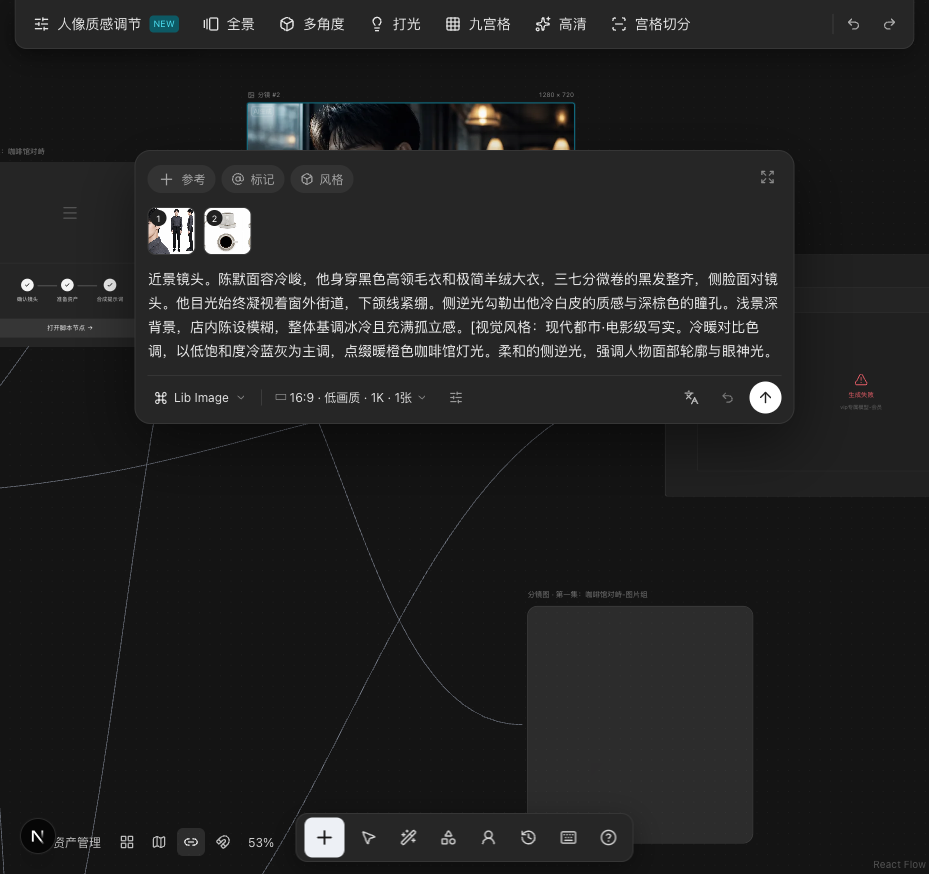
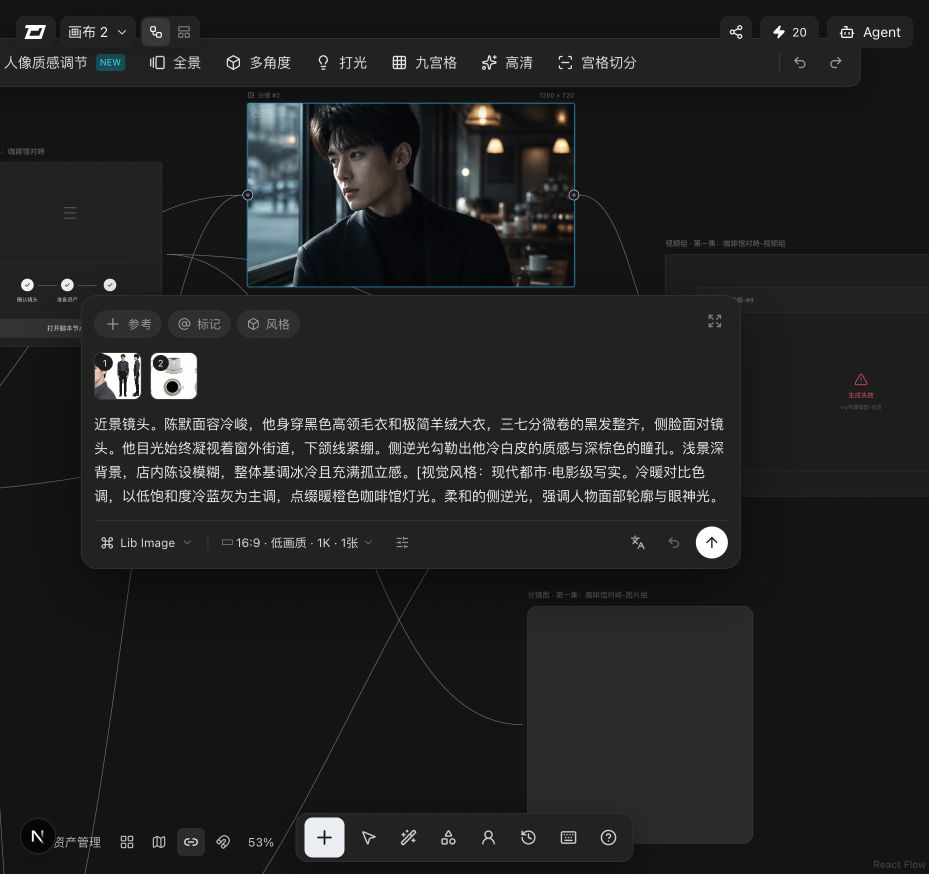
docs: specify image overlay anchoring

diff --git a/docs/research/components/ImageEditPanel.spec.md b/docs/research/components/ImageEditPanel.spec.md
@@ -1,89 +1,70 @@
 # ImageEditPanel Specification
 
-## Overview
+## Evidence
 
 - **Target file:** `src/components/ImageEditPanel.tsx`
-- **Trigger:** ImageNode is selected (`selected === true`).
-- **Position:** Absolutely positioned below the image node (`absolute left-0 right-0 top-full mt-2`).
-- **z-index:** 50.
+- **Live sample:** LibTV canvas, measured 2026-08-25
+- **Trigger:** an `ImageNode` is selected
+- **Reference:** `docs/design-references/liblib-original-image-selected-2026-08-25.png`
 
-## DOM Structure
+## Positioning Contract
 
-```
-<div className="absolute left-0 right-0 top-full mt-2 z-50 bg-[#1f1f1f] border border-[#363636] rounded-xl shadow-xl overflow-hidden">
+The editor is not a page-level fixed overlay. It is mounted inside the selected image node so it follows node movement, viewport pan, and viewport zoom.
 
-  <!-- Tabs -->
-  <div className="flex items-center gap-2 px-4 py-2 border-b border-[#363636]">
-    <button onClick={() => setActiveTab("style")}>风格</button>
-    <button onClick={() => setActiveTab("mark")}>标记</button>
-  </div>
-
-  <!-- Prompt -->
-  <div className="px-4 py-3">
-    <p>可直接文字生图，或上传图片输入文字指令...</p>
-    <textarea placeholder="输入提示词..." />
-  </div>
-
-  <!-- Bottom controls -->
-  <div className="px-4 py-3 border-t border-[#363636]">
-    <div className="flex items-center justify-between">
-      <!-- Left: model selectors -->
-      <div>
-        <button>Lib Image ▾</button>
-        <button>自适应 · 标准画质 · 2K ▾</button>
-        <button>预设 ▾</button>
-        <button onClick={() => setIsCameraConfigOpen(true)}>
-          <CameraIcon /> 摄像机
-        </button>
-        <button onClick={() => setIsCameraMovementOpen(true)}>
-          <CameraMoveIcon /> 运镜
-        </button>
-      </div>
-
-      <!-- Right: quantity + generate -->
-      <div>
-        <div>− 1张 +</div>
-        <div>ⓘ 18</div>
-        <button className="bg-[#09caf5]">→</button>
-      </div>
-    </div>
-  </div>
-</div>
-
-<CameraConfigDialog isOpen={isCameraConfigOpen} ... />
-<CameraMovementDialog isOpen={isCameraMovementOpen} ... />
+```text
+selected node
+└── node shell (position: relative)
+    └── ImageEditPanel wrapper
+        position: absolute
+        left: 50%
+        bottom: -16 flow units
+        translate: -50% 100%
+        width: 660px
+        transform: scale(1 / viewportZoom)
+        transform-origin: top center
 ```
 
-## Computed Styles
+This produces two intentional behaviors:
 
-| Element | Styles |
-|---------|--------|
-| Wrapper | `bg-[#1f1f1f] border border-[#363636] rounded-xl shadow-xl overflow-hidden` |
-| Active tab | `bg-[#363636] text-[#f7f7f7]` |
-| Inactive tab | `text-[#919191] hover:text-[#f7f7f7] hover:bg-[#353639]` |
-| Prompt | `w-full bg-[#363636] text-[#f7f7f7] text-sm p-2.5 rounded-lg border border-[#525252] focus:border-[#09caf5] outline-none resize-none h-16` |
-| Selector button | `flex items-center gap-1.5 px-3 py-1.5 rounded-lg bg-[#363636] hover:bg-[#525252]` |
-| Generate button | `w-8 h-8 rounded-lg bg-[#09caf5] text-white hover:bg-[#5ddcff]` |
+1. The panel center always equals the selected node's screen-space center.
+2. The panel remains `660px` wide on screen. Its gap below the node is `16 * zoom` screen pixels because `bottom: -16px` is evaluated in flow coordinates before the inverse scale.
 
-## Interactions
+The original does not clamp the panel to the viewport. Near an edge, it is clipped by the React Flow container.
 
-| Action | Effect |
-|--------|--------|
-| Click 风格 / 标记 tab | Switch active tab. |
-| Type in prompt textarea | Updates `prompt` local state. |
-| Click 摄像机 button | Opens `CameraConfigDialog`. On apply, currently `console.log` only. |
-| Click 运镜 button | Opens `CameraMovementDialog`. On apply, currently `console.log` only. |
-| Click + / − | Adjust quantity (1 by default). |
-| Click → generate button | No-op (would call generation API). |
+## Live Measurements
 
-## Notes
+At `zoom = 0.282798`, with `分镜 #2` selected:
 
-- This panel is a UI scaffold; no actual generation happens.
-- The prompt, camera config, and camera movement are held in component state only.
-- On apply events fire `console.log` rather than persisting to the store.
+| Element | Screen rect |
+|---|---|
+| Selected node | `x=537.278, y=232.188, w=175.900, h=98.979` |
+| Edit panel | `x=295.229, y=335.692, w=660.000, h=273.797` |
+
+Both centers are `x=625.23`. The vertical gap is `4.525px`, equal to `16 * 0.282798` within sub-pixel rounding.
+
+With the lower `咖啡` node selected, the panel starts at `x=-24.616`; this confirms that horizontal viewport clamping is not part of the original behavior.
+
+## Visual Structure
+
+- `660x274` for the populated `分镜 #2` prompt state
+- `16px` corner radius
+- `#262626` panel surface with a subtle border and shadow
+- reference, mark, and style controls
+- two image references
+- prompt editor
+- model and output controls
+- translation, undo, and generate actions
+
+Panel height can vary with image state and content. The current clone implements the populated `274px` state used by `分镜 #2`; backend generation and per-node editor content remain outside the prototype boundary.
+
+## Interaction Rules
+
+- `nodrag nowheel nopan` prevents editor gestures from moving the React Flow node or viewport.
+- Pan, zoom, and node drag must move the panel without a one-frame page-level positioning lag.
+- The panel's buttons and textarea remain at normal screen scale at every canvas zoom.
 
 ## Files Referenced
 
 - `src/components/ImageEditPanel.tsx`
-- `src/components/CameraConfigDialog.tsx`
-- `src/components/CameraMovementDialog.tsx`
+- `src/components/nodes/ImageNode.tsx`
+- `src/components/ImageToolbar.tsx`

diff --git a/docs/research/components/ImageNode.spec.md b/docs/research/components/ImageNode.spec.md
@@ -1,109 +1,62 @@
 # ImageNode Specification
 
 ## Overview
+
 - **Target file:** `src/components/nodes/ImageNode.tsx`
-- **Screenshot:** `docs/design-references/canvas-desktop-full.png`
-- **Interaction model:** Draggable (React Flow node)
+- **Interaction model:** React Flow draggable/connectable node
+- **Current source baseline:** four reference images plus `分镜 #2`
 
-## DOM Structure
-```
-<div> <!-- node container -->
-  <div> <!-- header -->
-    <div> <!-- icon container -->
-      <svg /> <!-- image icon -->
-    </div>
-    <div> <!-- filename -->
-      <div>image_2026-06-15T11-22-00</div>
-      <div>
-        <svg /> <!-- expand icon -->
-      </div>
-    </div>
-    <div>1808 × 1024</div> <!-- dimensions -->
-  </div>
-  <div> <!-- image container -->
-    <div> <!-- image wrapper -->
-      <div> <!-- inner container -->
-        <div></div>
-      </div>
-      <div> <!-- image display -->
-        <img /> <!-- main image -->
-        <img /> <!-- watermark overlay -->
-      </div>
-      <img /> <!-- close/settings button -->
-    </div>
-  </div>
-</div>
+## Structure
+
+```text
+ImageNode
+├── ImageToolbar via React Flow NodeToolbar (selected only)
+├── target/source Handle
+├── floating filename + dimensions
+├── full-node image and optional watermark
+└── ImageEditPanel inside the node shell (selected only)
 ```
 
-## Computed Styles (exact values from getComputedStyle)
+Node width and height come from the Zustand canvas data and React Flow's outer transform layer. Do not read `props.style`: xyflow v12 does not pass `node.style` to custom node components.
 
-### Container
-- backgroundColor: #1f1f1f (mantine dark-8)
-- borderRadius: 8px
-- border: 1px solid #363636
-- boxShadow: 0 1px 3px rgba(0,0,0,0.3)
-- minWidth: 240px
+## Default State
 
-### Header
-- display: flex
-- alignItems: center
-- gap: 8px
-- padding: 8px 12px
-- borderBottom: 1px solid #363636
+- `4px` corner radius
+- subtle border on `#202020`
+- image fills the full node with `object-fit: cover`
+- filename and source dimensions float above the node
+- target/source handles sit at the horizontal midpoint
+- optional LibTV watermark is rendered at the image's top-left
 
-### Filename
-- fontSize: 12px
-- fontWeight: 400
-- color: #f7f7f7
-- overflow: hidden
-- textOverflow: ellipsis
-- whiteSpace: nowrap
+## Selected State
 
-### Dimensions
-- fontSize: 12px
-- fontWeight: 400
-- color: #919191 (--color-fg-muted)
+- cyan border and low-opacity cyan focus ring
+- top horizontal `ImageToolbar`
+- bottom `ImageEditPanel`
 
-### Image Container
-- position: relative
-- overflow: hidden
+### Top toolbar
 
-### Main Image
-- width: 100%
-- height: auto
-- objectFit: cover
-- display: block
+The toolbar uses React Flow `NodeToolbar` with `position=Top`, `align=center`, and `offset=16`. React Flow renders it outside the scaled viewport, so it stays approximately `900x49` screen pixels at every zoom.
 
-### Watermark Overlay
-- position: absolute
-- top: auto
-- bottom: auto
-- right: auto
-- left: auto
-- width: 210px
-- height: 102px
-- pointerEvents: none
-- zIndex: 10
-- userSelect: none
+Its horizontal center equals the selected node center. It is not centered in the browser viewport and is not clamped at the viewport edge.
 
-## States & Behaviors
+### Bottom editor
 
-### Selection State
-- **border:** changes to accent color (#09caf5)
+The editor is a child of `ImageNode`, centered on the node and counter-scaled by `1 / zoom`. See `ImageEditPanel.spec.md` for the exact formula and measurements.
 
-### Hover State
-- **boxShadow:** increases slightly
-- **Close button:** becomes visible
+## Required Regressions
 
-### Image Loading
-- Shows skeleton/placeholder while loading
-- Transitions to full image on load
+- selecting any image shows exactly one top toolbar and one bottom panel
+- clicking empty canvas removes both overlays
+- switching selected image moves both overlays to the new node
+- node drag and viewport pan keep both overlays attached
+- 28%, 53%, and 100% zoom preserve toolbar/panel screen size
+- mobile clipping follows the original; do not move the overlays to page center to keep them visible
 
 ## Assets
-- Main image: `public/images/scene-coffee-1.png` (example)
-- Watermark: `public/images/watermark.png`
-- Icons: inline SVGs (image, expand, close)
 
-## Responsive Behavior
-- **Desktop (1440px):** Full node with image preview
-- **Canvas zoom:** Node scales with canvas zoom level
+- `public/images/scene-coffee-1.png`
+- `public/images/scene-coffee-2.png`
+- `public/images/scene-coffee-3.png`
+- `public/images/scene-coffee-4.png`
+- `public/images/storyboard-2.png`

diff --git a/docs/research/COMPONENT_INVENTORY.md b/docs/research/COMPONENT_INVENTORY.md
@@ -44,8 +44,8 @@ All node types inherit the React Flow `NodeProps` shape. The connection handle i
 | `MaterialLibraryPanel` | `src/components/MaterialLibraryPanel.tsx` | Material library side panel (placeholder). |
 | `CharacterLibraryPanel` | `src/components/CharacterLibraryPanel.tsx` | Character library side panel (placeholder). |
 | `HistoryPanel` | `src/components/HistoryPanel.tsx` | History panel (placeholder). |
-| `ImageToolbar` | `src/components/ImageToolbar.tsx` | Vertical icon toolbar for selected image node: 人像质感, 全景, 多角度, 打光, 九宫格, 高清, 宫格切分. |
-| `ImageEditPanel` | `src/components/ImageEditPanel.tsx` | Bottom panel for selected image node: style/mark tabs, prompt, model selector, 摄像机 + 运镜 buttons, 生成 button. |
+| `ImageToolbar` | `src/components/ImageToolbar.tsx` | Horizontal `NodeToolbar` above the selected image: 人像质感, 全景, 多角度, 打光, 九宫格, 高清, 宫格切分. |
+| `ImageEditPanel` | `src/components/ImageEditPanel.tsx` | `660px` node-anchored panel below the selected image; inverse-scales with viewport zoom. |
 | `CameraConfigDialog` | `src/components/CameraConfigDialog.tsx` | 9 cameras × 10 lenses × 7 focal lengths × 3 apertures = custom camera config. |
 | `CameraMovementDialog` | `src/components/CameraMovementDialog.tsx` | 10 movement types (静止/横摇/俯仰/推拉/横移/升降/旋转/变焦/环绕/摇臂) + speed + duration + amplitude. |
 | `KeyboardShortcutsDialog` | `src/components/KeyboardShortcutsDialog.tsx` | Modal listing keyboard shortcuts. |

diff --git a/docs/research/liblib-live-2026-08-25/README.md b/docs/research/liblib-live-2026-08-25/README.md
@@ -48,6 +48,21 @@
 | 视频组 | `(2374, -12)` | `722x460` | `#212121` 分镜组 |
 | 失败视频 | `(2436, 50)` | `622x350` | 视频组内视觉内容 |
 
+### 图片节点选中态定位
+
+2026-08-25 复测确认，图片节点的两个弹层都以节点为锚点，而不是页面固定层：
+
+- 顶部工具条约 `900.5x49`，水平中心始终等于选中节点中心，底边距离节点上沿约 `16px`；工具条不随画布缩放。
+- 底部编辑面板宽 `660px`，水平中心同样等于节点中心。它位于节点内部的绝对定位层，并用 `scale(1 / zoom)` 保持屏幕尺寸；节点与面板的屏幕间距为 `16 * zoom`。
+- 原站不做水平或垂直视口夹取。选择靠左、靠下节点时，工具条和面板会自然超出 React Flow 容器并被裁切。
+
+在 `zoom=0.282798`、选中 `分镜 #2` 时，节点中心和两个弹层中心均约为 `x=625.23`；编辑面板与节点下沿相距 `4.525px`。同一缩放下选择 `咖啡` 节点时，面板左边为 `x=-24.616`，进一步排除了“始终居中浏览器”的实现。
+
+修正后证据：
+
+- [`../../design-references/liblib-clone-after-2026-08-25-image-selected.png`](../../design-references/liblib-clone-after-2026-08-25-image-selected.png)
+- [`../../design-references/liblib-clone-after-2026-08-25-image-selected-mobile-390.png`](../../design-references/liblib-clone-after-2026-08-25-image-selected-mobile-390.png)
+
 ## 3. 缺口清单
 
 ### P0：决定“看起来是不是同一个产品”

diff --git a/docs/BIG_PICTURE.md b/docs/BIG_PICTURE.md
@@ -190,13 +190,15 @@ React Flow change
 LibTV 节点各自直接实现卡片、Handle 和专属交互，没有统一 NodeShell：
 
 - `ScriptNode`：剧本文本
-- `ImageNode`：按原站尺寸渲染图片和悬浮元数据；选中后的工具条与编辑面板由页面级 viewport overlay 渲染，避免随画布缩放
+- `ImageNode`：按原站尺寸渲染图片和悬浮元数据；顶部工具条使用 React Flow `NodeToolbar` 锚定节点并保持屏幕尺寸，底部编辑面板挂在节点内并用 `1 / zoom` 反向缩放
 - `TextNode`：文本
 - `VideoNode`：当前项目中的失败视频状态
 - `ScriptExecutionNode`：步骤状态
 - `StoryboardGroupNode`：图片组/视频组背景容器
 
 当前初始画布按原站结构化数据放置 10 个节点和 11 条边。`AddNodePanel` 展示原站的 9 个节点入口；在没有专用 renderer 的类别上，它会映射到最接近的已注册原型节点。这个映射只用于验证添加流程，不表示导演台、音频、逐帧拉片等业务已经实现。
+
+图片节点浮层不能使用页面固定坐标。原站的上工具条与下编辑器都以选中节点的屏幕中心为锚点；前者由 React Flow 在非缩放层定位，后者位于节点内部并反向缩放。它们允许超出画布边界后被裁切，不会为了保持可见而重新居中到浏览器视口。
 
 ## 6. FrameOS 运行模型
 

diff --git a/docs/research/BEHAVIORS.md b/docs/research/BEHAVIORS.md
@@ -123,9 +123,9 @@ Buttons (left to right):
 ### Select Image Node
 - **Trigger:** Click an ImageNode
 - **Effect:** Shows:
-  - `ImageEditPanel` (below the node) — bottom panel with style/mark tabs, prompt textarea, model selector, 摄像机 + 运镜 buttons, generate button
-  - `ImageToolbar` (right of the node) — vertical icon toolbar with 7 features (人像质感, 全景, 多角度, 打光, 九宫格, 高清, 宫格切分)
-  - The X (close) button on the image header becomes visible
+  - `ImageToolbar` above the node — horizontal `900×49` toolbar, node-centered with a `16px` screen-space offset and constant screen size
+  - `ImageEditPanel` below the node — `660×274` populated prompt state, node-centered and counter-scaled by `1 / zoom`
+  - Both overlays follow node drag, pan, and zoom; neither is clamped or recentered to the browser viewport
 
 ### Click 摄像机 (Camera) Button in ImageEditPanel
 - Opens `CameraConfigDialog`.

diff --git a/docs/README.md b/docs/README.md
@@ -95,8 +95,8 @@ src/
 │   ├── StoryboardBoard.tsx       # Storyboard-mode column view
 │   ├── AddNodePanel.tsx          # Current one-column 9-entry node/resource selector
 │   ├── CanvasTabDropdown.tsx     # Multi-canvas switcher (rename/duplicate/delete)
-│   ├── ImageToolbar.tsx          # Page-level horizontal toolbar for a selected image
-│   ├── ImageEditPanel.tsx        # Page-level 660×274 image prompt editor
+│   ├── ImageToolbar.tsx          # NodeToolbar-anchored horizontal toolbar for a selected image
+│   ├── ImageEditPanel.tsx        # Node-anchored, inverse-zoom 660×274 image prompt editor
 │   ├── CameraConfigDialog.tsx    # 9 cameras × 10 lenses × 7 focal lengths × 3 apertures
 │   ├── CameraMovementDialog.tsx  # 10 movement types + speed + duration + amplitude
 │   ├── ToolboxPanel.tsx          # Preset animation templates (placeholder)
